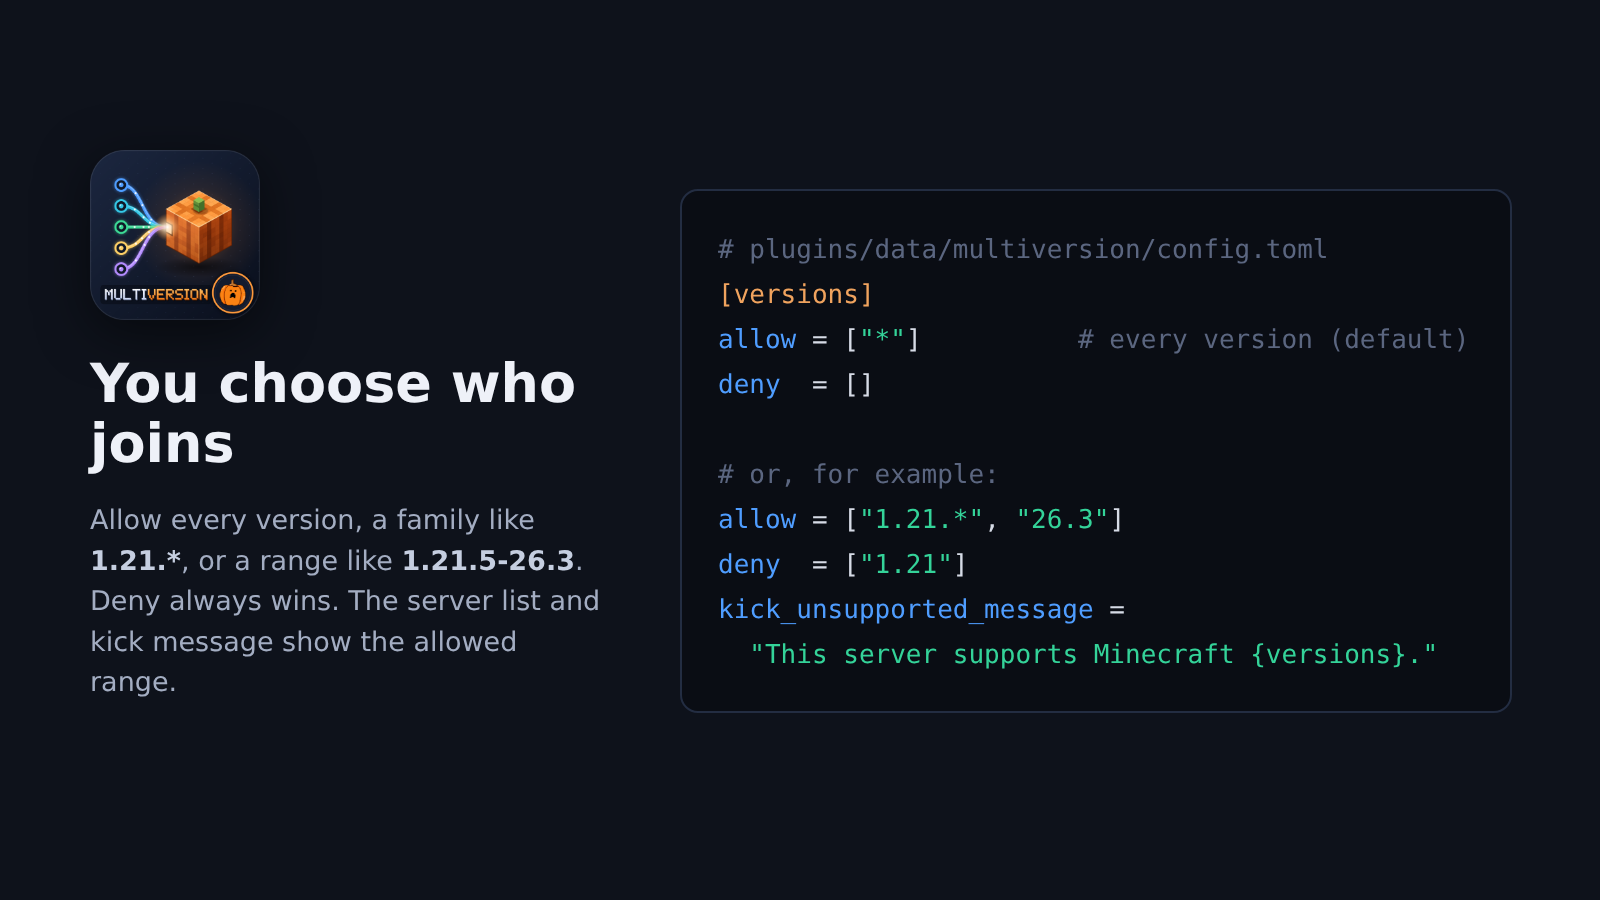
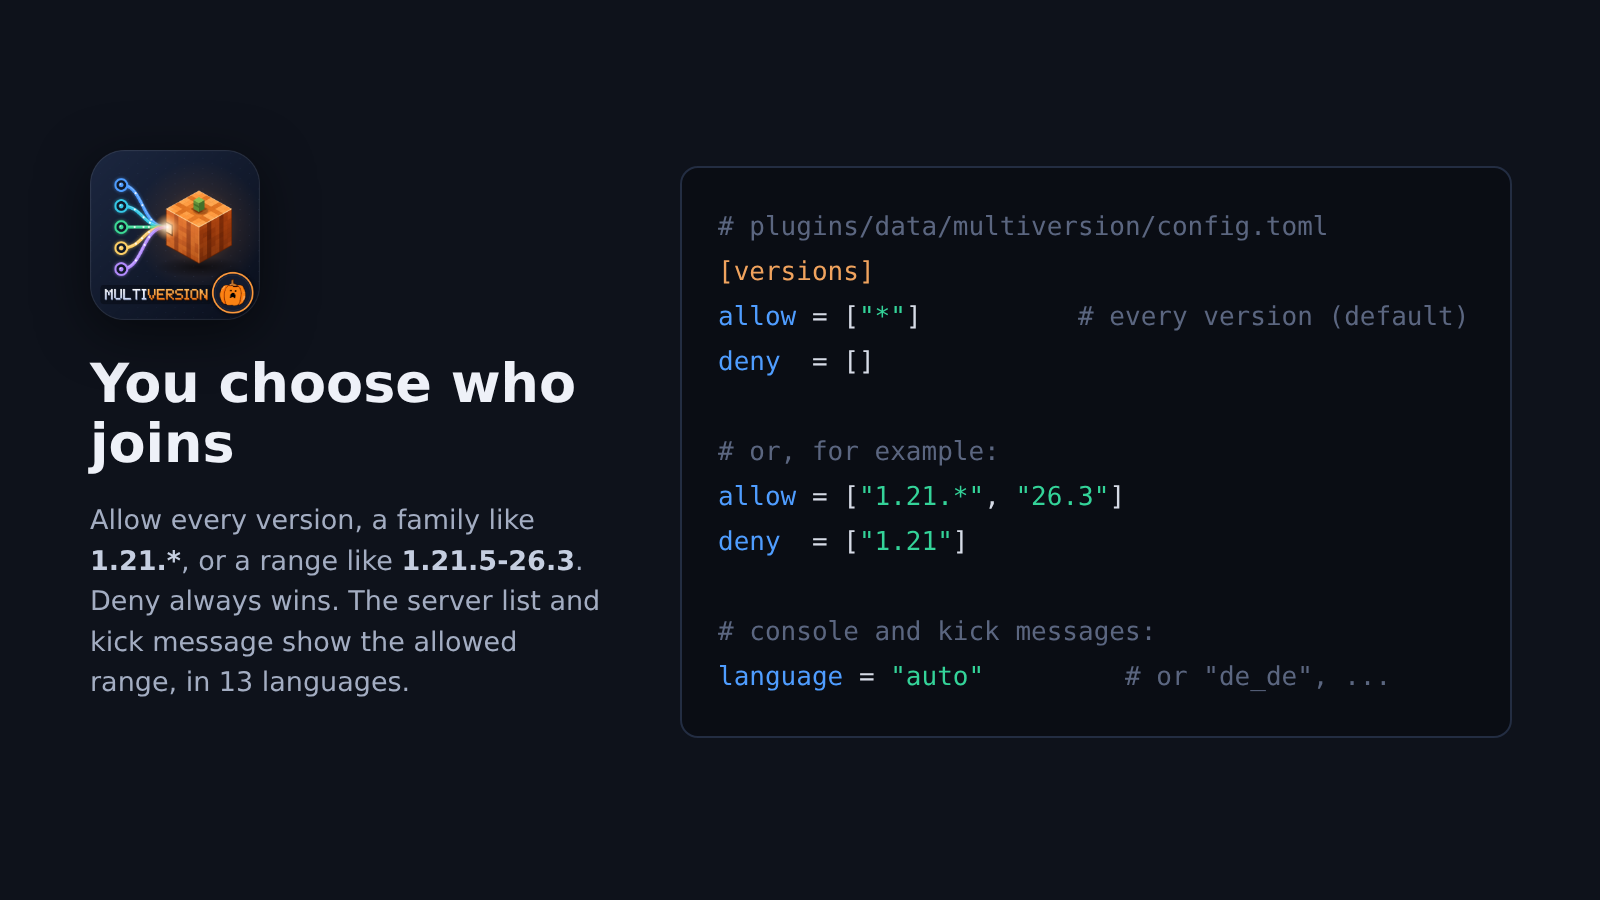
Market description and screenshots for 0.6.0

diff --git a/market/description.md b/market/description.md
@@ -31,7 +31,7 @@
 - 🧱 **Sensible stand-ins**: blocks, items and mobs an older client doesn't have appear as their closest match
 - 🖥 **Clear startup banner**: the supported versions, ports and login mode at a glance, and every console line tagged `[Multiversion]`
 - 🛡 **Built-in protection**: oversized packets before login are refused, idle logins time out, one address can only hold a few connections that are still logging in and open a limited number per 10 seconds, and malformed data is refused before it can use up memory
-- 📊 **Who is on which version**: `/multiversion status` lists the players online by game version
+- 📊 **Who is on which version**: `/multiversion status` lists the players online by game version, in the console or in game
 - 🔔 **Update check**: tells the console and operators when a newer version is on the Market, and `/multiversion update download` fetches the signed file after checking its signature
 - ⚡ **Light on the CPU and memory**: chunks are translated about four times faster than in 0.5.0, its own fast connection encryption (about 3.6 times quicker than before), server-list pings answered from a one-second cache, compression memory only for connections that need it, and Pumpkin's link to the plugin can skip compression
 - 🌍 **13 languages, and yours**: every message, in game and in the console, comes from a language file (English, German, Spanish, French, Italian, Japanese, Korean, Dutch, Polish, Portuguese, Russian, Turkish, Chinese). Add a language by dropping a file in the `lang` folder, with no code or config change
@@ -39,6 +39,8 @@
 - 🪶 **Self-contained**: one `.wasm` file (about 2.8 MB) and one config file
 
 ![Console](https://raw.githubusercontent.com/Xathr/Multiversion/main/market/screenshot-console.png)
+
+![Who is on which version](https://raw.githubusercontent.com/Xathr/Multiversion/main/market/screenshot-status.png)
 
 ## Setup
 
@@ -53,6 +55,8 @@ It is the same on Linux and Windows. Players keep connecting to port 25565 as be
 `plugins/data/multiversion/config.toml`:
 
 ```toml
+language = "auto"             # console and kick messages: "auto" (English) or e.g. "de_de"
+
 [backend]
 pumpkin_compression = false   # true keeps Pumpkin compressing its local link (costs CPU)
 
@@ -72,7 +76,7 @@ download = false              # download a newer, signed Multiversion.wasm at st
 
 ![Version filter](https://raw.githubusercontent.com/Xathr/Multiversion/main/market/screenshot-config.png)
 
-You can also change the public and backend ports, online mode, the server-list version text, the kick message, compression and connection limits.
+You can also change the public and backend ports, online mode, the server-list version text, compression and connection limits. Every message can be reworded in the files under `plugins/data/multiversion/lang/`.
 
 ## Permissions it asks for
 

diff --git a/market/listing.md b/market/listing.md
@@ -11,7 +11,7 @@ Copy each field into the Store Listing form at market.pumpkinmc.org.
 | Version | 0.6.0 |
 | Binary | `Multiversion.wasm` from the latest release of this repository (about 2.8 MB, under the 5 MB limit) |
 | Icon | `logo.png` (512×512) |
-| Screenshots | `screenshot-versions.png`, `screenshot-console.png`, `screenshot-config.png` (1600×900 each) |
+| Screenshots | `screenshot-versions.png`, `screenshot-console.png`, `screenshot-status.png`, `screenshot-config.png` (1600×900 each) |
 | Source link | https://github.com/Xathr/Multiversion |
 | Sources / credits | [ViaVersion](https://github.com/ViaVersion/ViaVersion), [ViaBackwards](https://github.com/ViaVersion/ViaBackwards), [ViaVersion Mappings](https://github.com/ViaVersion/Mappings) (GPL-3.0), [minecraft-data](https://github.com/PrismarineJS/minecraft-data) |
 | Keywords | multiversion, protocol, version, compatibility, 1.17, 1.17.1, 1.18, 1.18.2, 1.19, 1.19.2, 1.19.4, 1.20, 1.20.1, 1.20.2, 1.20.4, 1.20.6, 1.21, 26.3, cross-version, viaversion, backwards |
@@ -21,6 +21,7 @@ Copy each field into the Store Listing form at market.pumpkinmc.org.
 
 | Name | Aliases | Permission | Description |
 |---|---|---|---|
+| `multiversion status` | | `multiversion:update` | Lists the players online by game version |
 | `multiversion update` | | `multiversion:update` | Shows whether a newer Multiversion version is on the Pumpkin Market |
 | `multiversion update check` | | `multiversion:update` | Asks the Pumpkin Market for the latest version now |
 | `multiversion update download` | | `multiversion:update` | Downloads the Market-signed Multiversion.wasm into plugins/data/multiversion/update |
